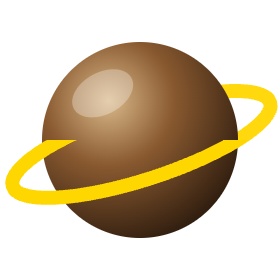
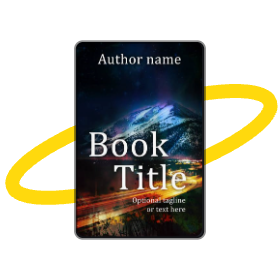
Library planet: replace the sphere with an actual book cover graphic
Add a new "book" art type to planets.js that draws a flat rectangular
cover (clipped to a rounded rect, not a circle) with the same gold
Saturn-style ring drawn behind it, instead of forcing the image onto a
sphere. Point the Library planet at the new library-book-planet.png.

This automatically updates every live rendering of the planet (home
page constellation, mobile list, every sub-page's sidebar nav, the
site map) since they all go through the same planetSVG() function.
Also regenerated the newsletter's static email-planet-library.png
divider icon to match.

diff --git a/assets/planets.js b/assets/planets.js
@@ -21,6 +21,7 @@ function planetSVG(art, size) {
     earth: earth,
     basketball: basketball,
     photo: photo,
+    book: book,
   }[type] || sphere;
 
   // an optional word curved along the top of the sphere's own circle, like
@@ -183,6 +184,57 @@ function photo(id, c, s, l, ring, photoUrl, rawRing, showVignette) {
     rawRing +
     '" stroke-width="6"/></g></g>';
   return ringBack + img + shading + vignette + softGloss + ringFront;
+}
+
+// a flat rectangular book cover instead of a sphere, with a gold ring
+// (like Saturn's) drawn behind it -- used for the Library planet so its
+// icon reads as an actual book, not a ball
+function book(id, c, s, l, ring, photoUrl, rawRing) {
+  if (!photoUrl) return sphere(id);
+  const ringColor = rawRing || ring;
+  const ringEl =
+    '<g transform="rotate(-18 60 60)"><ellipse cx="60" cy="62" rx="58" ry="15" fill="none" stroke="' +
+    ringColor +
+    '" stroke-width="6" opacity="0.95"/></g>';
+  const bw = 55,
+    bh = 84,
+    bx = 60 - bw / 2,
+    by = 60 - bh / 2;
+  const cover =
+    '<clipPath id="' +
+    id +
+    'book"><rect x="' +
+    bx +
+    '" y="' +
+    by +
+    '" width="' +
+    bw +
+    '" height="' +
+    bh +
+    '" rx="3"/></clipPath>' +
+    '<g clip-path="url(#' +
+    id +
+    'book)"><image href="' +
+    photoUrl +
+    '" x="' +
+    bx +
+    '" y="' +
+    by +
+    '" width="' +
+    bw +
+    '" height="' +
+    bh +
+    '" preserveAspectRatio="xMidYMid slice"/></g>' +
+    '<rect x="' +
+    bx +
+    '" y="' +
+    by +
+    '" width="' +
+    bw +
+    '" height="' +
+    bh +
+    '" rx="3" fill="none" stroke="rgba(0,0,0,0.45)" stroke-width="1.5"/>';
+  return ringEl + cover;
 }
 
 function shorts(id, c, s, l, ring) {

diff --git a/config.js b/config.js
@@ -2573,7 +2573,7 @@ FIN`,
       x: 28.8,
       y: 21.6,
       size: 88,
-      art: { type: "ringed", color: "#8a5a30", shade: "#2b1a0d", light: "#d9b98a", ring: "#ffd700" },
+      art: { type: "book", photo: "assets/images/library-book-planet.png", ring: "#ffd700" },
       page: {
         ribbon: "we judge a book only by how cool the cover is",
         oval: { fill: "#1f5c3a", text: "#ffd700", label: "Weekly Book Cover Recommendations" },
